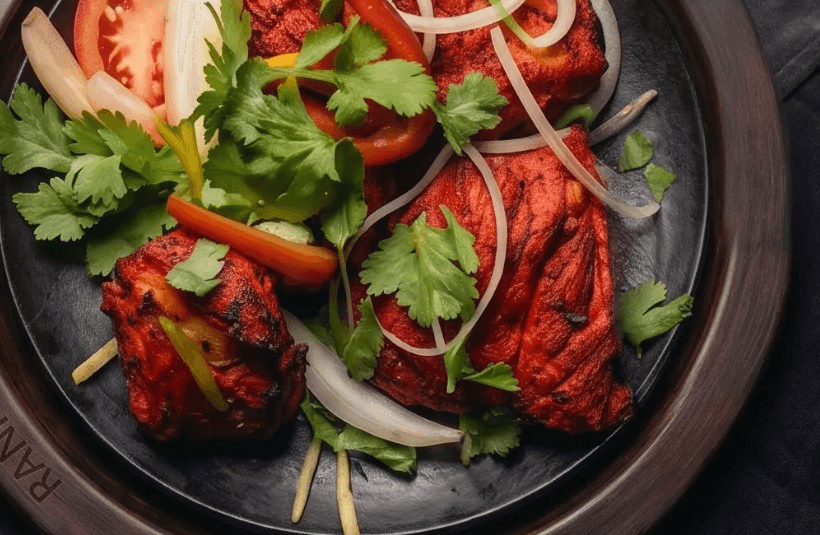
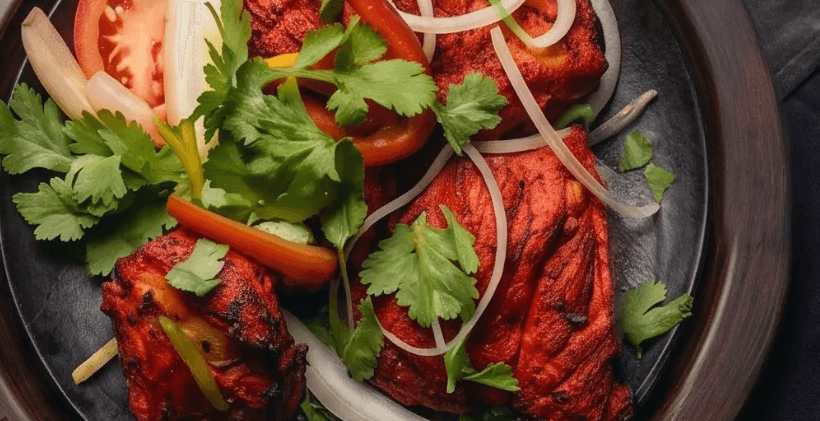
Fix authenticity leaks in shipped AI-concept crops, add remaining images
Auditing whether every dark image the user provided actually made it in
turned up two real gaps:

- image_1.webp/image_6.webp (a near-duplicate grid and a bordered grid)
  from the second batch were never cropped at all — image_6's three
  usable quadrants are now in the gallery (image_1 is skipped, it's a
  near-duplicate of image_2 already in use).
- image_2's "tl" and image_3's "tr" quadrants were also missed the
  first time around.

Auditing also caught four already-shipped crops (butter-chicken-kadai,
tandoori-chicken-c, lamb-kadai-naan, saag-paneer-closeup) still showing
a sliver of the fabricated "RANI MAHAL" engraving or a generator
watermark icon in a corner — added extraRight trim support and
tightened the existing extraTop/Left/Bottom trims to fully remove both.

diff --git a/src/content/gallery.ts b/src/content/gallery.ts
@@ -51,6 +51,10 @@ export const galleryImages: GalleryImage[] = [
   { src: photo("3.jpg"), alt: "Curry with naan on the plate", width: 1170, height: 660, category: "dishes" },
   { src: photo("16.jpg"), alt: "Naan with a side salad", width: 1170, height: 660, category: "dishes" },
   { src: photo("5.jpg"), alt: "Fresh naan and salad", width: 1170, height: 660, category: "dishes" },
+  { src: aiConcept("thali-tray-bowls.png"), alt: "Concept: thali tray with tandoori fish and naan, dark studio lighting", width: 588, height: 317, category: "dishes" },
+  { src: aiConcept("tandoori-chicken-d.png"), alt: "Concept: tandoori chicken, dark studio lighting", width: 515, height: 174, category: "dishes" },
+  { src: aiConcept("lamb-kadai-table.png"), alt: "Concept: lamb kadai, dark studio lighting", width: 710, height: 372, category: "dishes" },
+  { src: aiConcept("table-fish-tandoori.png"), alt: "Concept: whole fish and tandoori chicken table spread, dark studio lighting", width: 860, height: 571, category: "dishes" },
 
   // — The room —
   { src: photo("24.JPG"), alt: "Dining room set for service", width: 482, height: 724, category: "interior" },
@@ -66,4 +70,5 @@ export const galleryImages: GalleryImage[] = [
   { src: photo("7a.jpg"), alt: "Appetizers with wine poured", width: 1170, height: 660, category: "drinks" },
   { src: photo("8.jpg"), alt: "A table set with wine at Rani Mahal", width: 1170, height: 660, category: "drinks" },
   { src: aiConcept("thali-tray-wide.png"), alt: "Concept: full table spread, dark studio lighting", width: 2000, height: 1422, category: "drinks" },
+  { src: aiConcept("bar-table-spread.png"), alt: "Concept: appetizer bowls and wine at the bar, dark studio lighting", width: 860, height: 571, category: "drinks" },
 ];
